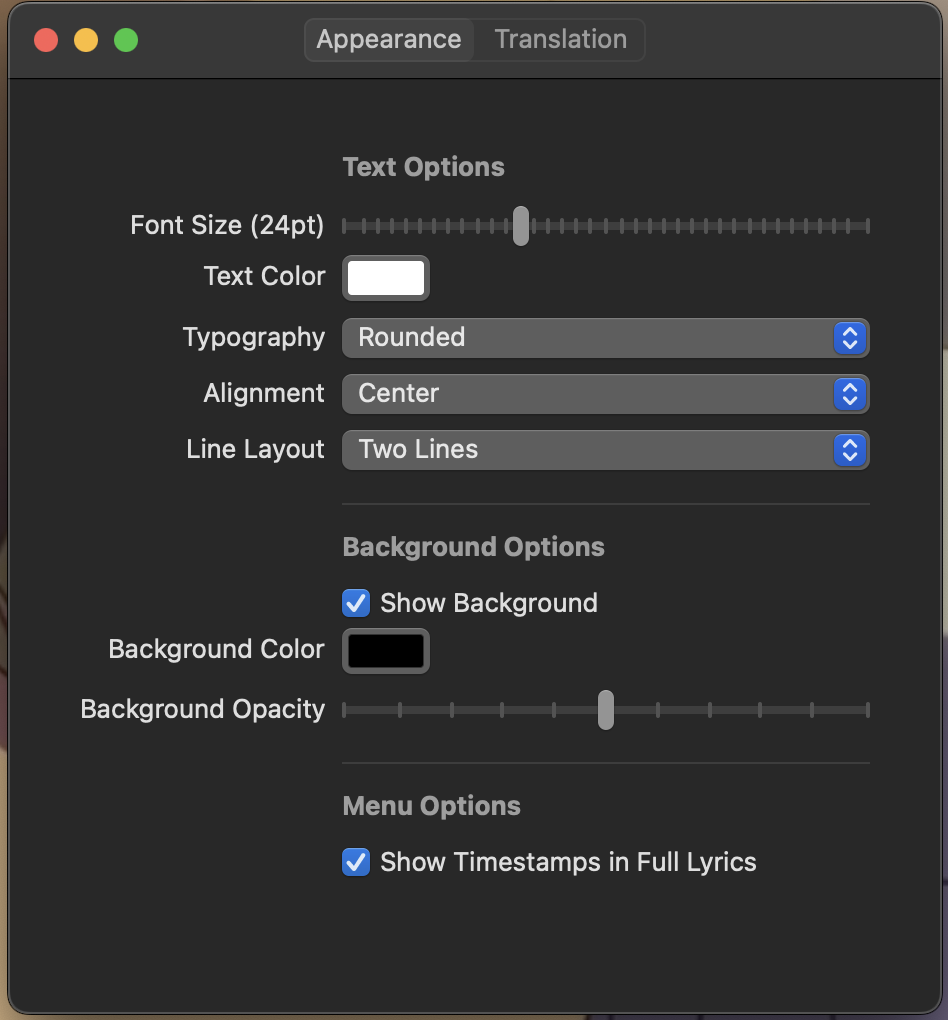
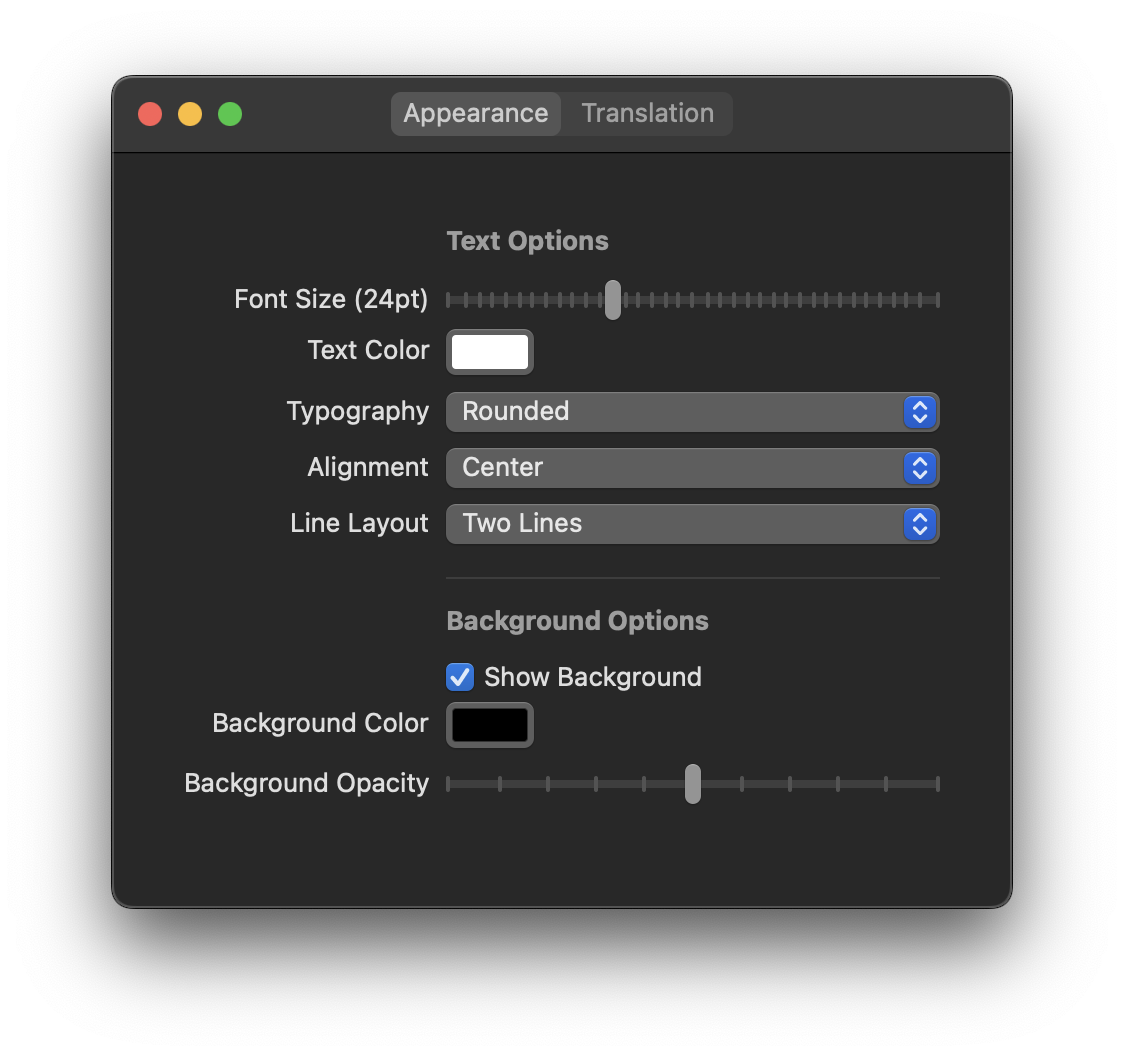
feat: Make translation and romanization display modes customizable (#8)

diff --git a/Sources/UI/LyricsOverlayView.swift b/Sources/UI/LyricsOverlayView.swift
@@ -50,7 +50,7 @@ struct LyricsOverlayView: View {
                 TimelineView(.animation) { _ in
                     let effectiveTime = syncEngine.currentEffectiveTime()
                     
-                    let isRomanized = settings.enableRomanization && Romanizer.romanize(active.text) != nil
+                    let isRomanized = settings.enableRomanization && settings.romanizationDisplayMode != "fullLyricsOnly" && Romanizer.romanize(active.text) != nil
                     let mainText = isRomanized ? Romanizer.romanize(active.text)! : active.text
                     let subText = isRomanized ? active.text : nil
                     
@@ -82,7 +82,7 @@ struct LyricsOverlayView: View {
                     }
                 }
                 
-                if settings.enableTranslation, let translated = translatedLines[active.id], !translated.isEmpty {
+                if settings.enableTranslation && settings.translationDisplayMode != "fullLyricsOnly", let translated = translatedLines[active.id], !translated.isEmpty {
                     HStack(alignment: .firstTextBaseline, spacing: 6) {
                         Image(systemName: "translate")
                             .font(.system(size: max(8, settings.fontSize - 10), weight: .semibold))
@@ -105,7 +105,7 @@ struct LyricsOverlayView: View {
             
             if settings.lineLayout == "two" || settings.lineLayout == "three" {
                 if let next = syncEngine.nextLine {
-                    let isRomanized = settings.enableRomanization && Romanizer.romanize(next.text) != nil
+                    let isRomanized = settings.enableRomanization && settings.romanizationDisplayMode != "fullLyricsOnly" && Romanizer.romanize(next.text) != nil
                     let textToShow = isRomanized ? Romanizer.romanize(next.text)! : next.text
                     
                     HStack(alignment: .center, spacing: 6) {
@@ -127,7 +127,7 @@ struct LyricsOverlayView: View {
             
             if settings.lineLayout == "three" {
                 if let nextNext = syncEngine.nextNextLine {
-                    let isRomanized = settings.enableRomanization && Romanizer.romanize(nextNext.text) != nil
+                    let isRomanized = settings.enableRomanization && settings.romanizationDisplayMode != "fullLyricsOnly" && Romanizer.romanize(nextNext.text) != nil
                     let textToShow = isRomanized ? Romanizer.romanize(nextNext.text)! : nextNext.text
                     
                     HStack(alignment: .center, spacing: 6) {
@@ -159,7 +159,7 @@ struct LyricsOverlayView: View {
         )
         .frame(maxWidth: .infinity, maxHeight: .infinity)
         .contentShape(Rectangle()) // Make the transparent part clickable for dragging
-        .applyBatchTranslation(lines: syncEngine.currentLyrics?.lines ?? [], detectedLanguage: syncEngine.currentLyrics?.detectedLanguage, isEnabled: settings.enableTranslation, sourceLanguage: settings.translationSource, targetLanguage: settings.translationTarget, translatedLines: $translatedLines)
+        .applyBatchTranslation(lines: syncEngine.currentLyrics?.lines ?? [], detectedLanguage: syncEngine.currentLyrics?.detectedLanguage, isEnabled: settings.enableTranslation && settings.translationDisplayMode != "fullLyricsOnly", sourceLanguage: settings.translationSource, targetLanguage: settings.translationTarget, translatedLines: $translatedLines)
     }
     
 }
@@ -280,21 +280,25 @@ struct TranslationWrapper: ViewModifier {
                     translatedText = nil
                 }
             }
-            .translationTask(config) { session in
-                guard isEnabled else { return }
-                do {
-                    // Only call prepareTranslation for explicit source language —
-                    // for auto-detect, skip it to avoid the language-picker popup.
-                    // If translation fails silently, translatedText stays nil.
-                    if sourceLanguage != "auto" {
-                        try await session.prepareTranslation()
+            .background(
+                Group {
+                    if let config = config {
+                        Color.clear
+                            .translationTask(config) { session in
+                                guard isEnabled else { return }
+                                do {
+                                    if sourceLanguage != "auto" {
+                                        try await session.prepareTranslation()
+                                    }
+                                    let response = try await session.translate(text)
+                                    translatedText = response.targetText
+                                } catch {
+                                    translatedText = nil
+                                }
+                            }
                     }
-                    let response = try await session.translate(text)
-                    translatedText = response.targetText
-                } catch {
-                    translatedText = nil
                 }
-            }
+            )
     }
 }
 
@@ -332,20 +336,27 @@ struct BatchTranslationWrapper: ViewModifier {
             .onChange(of: sourceLanguage) { _, _ in triggerTranslation() }
             .onChange(of: targetLanguage) { _, _ in triggerTranslation() }
             .onChange(of: lines.first?.id) { _, _ in triggerTranslation() }
-            .translationTask(config) { session in
-                do {
-                    if sourceLanguage != "auto" {
-                        try await session.prepareTranslation()
+            .background(
+                Group {
+                    if let config = config {
+                        Color.clear
+                            .translationTask(config) { session in
+                                do {
+                                    if sourceLanguage != "auto" {
+                                        try await session.prepareTranslation()
+                                    }
+                                    translatedLines = [:]
+                                    for line in lines where !line.text.isEmpty && line.text != "•••" && line.text != "♫" {
+                                        let response = try await session.translate(line.text)
+                                        translatedLines[line.id] = response.targetText
+                                    }
+                                } catch {
+                                    translatedLines = [:]
+                                }
+                            }
                     }
-                    translatedLines = [:]
-                    for line in lines where !line.text.isEmpty && line.text != "•••" && line.text != "♫" {
-                        let response = try await session.translate(line.text)
-                        translatedLines[line.id] = response.targetText
-                    }
-                } catch {
-                    translatedLines = [:]
                 }
-            }
+            )
     }
     
     private func triggerTranslation() {

diff --git a/Sources/UI/ManualOverrideView.swift b/Sources/UI/ManualOverrideView.swift
@@ -185,7 +185,7 @@ struct ManualOverrideView: View {
                                     }
                                 }) {
                                     VStack(alignment: .leading, spacing: 1) {
-                                        if settings.enableRomanization, let romanized = Romanizer.romanize(line.text) {
+                                        if settings.enableRomanization && settings.romanizationDisplayMode != "overlayOnly", let romanized = Romanizer.romanize(line.text) {
                                             HStack(alignment: .firstTextBaseline, spacing: 4) {
                                                 if lyrics.isSynced {
                                                     Image(systemName: "waveform")
@@ -236,7 +236,7 @@ struct ManualOverrideView: View {
                                             }
                                         }
                                         
-                                        if settings.enableTranslation, let translated = translatedLines[line.id], !translated.isEmpty {
+                                        if settings.enableTranslation && settings.translationDisplayMode != "overlayOnly", let translated = translatedLines[line.id], !translated.isEmpty {
                                             HStack(alignment: .top, spacing: 3) {
                                                 Image(systemName: "translate")
                                                     .font(.system(size: 9))
@@ -358,7 +358,7 @@ struct ManualOverrideView: View {
         .applyBatchTranslation(
             lines: syncEngine.currentLyrics?.lines ?? [],
             detectedLanguage: syncEngine.currentLyrics?.detectedLanguage,
-            isEnabled: settings.enableTranslation,
+            isEnabled: settings.enableTranslation && settings.translationDisplayMode != "overlayOnly",
             sourceLanguage: settings.translationSource,
             targetLanguage: settings.translationTarget,
             translatedLines: $translatedLines

diff --git a/Sources/UI/SettingsView.swift b/Sources/UI/SettingsView.swift
@@ -105,7 +105,21 @@ struct SettingsView: View {
                 Form {
             Section {
                 Toggle("Romanize Non-Latin Text", isOn: $settings.enableRomanization)
+                if settings.enableRomanization {
+                    Picker("Display On", selection: $settings.romanizationDisplayMode) {
+                        Text("Both").tag("both")
+                        Text("Overlay Only").tag("overlayOnly")
+                        Text("Full Lyrics Only").tag("fullLyricsOnly")
+                    }
+                }
                 Toggle("Enable Translation", isOn: $settings.enableTranslation)
+                if settings.enableTranslation {
+                    Picker("Display On", selection: $settings.translationDisplayMode) {
+                        Text("Both").tag("both")
+                        Text("Overlay Only").tag("overlayOnly")
+                        Text("Full Lyrics Only").tag("fullLyricsOnly")
+                    }
+                }
             } header: {
                 Text("General")
                     .font(.headline)

diff --git a/Sources/Core/SettingsManager.swift b/Sources/Core/SettingsManager.swift
@@ -11,7 +11,9 @@ class SettingsManager: ObservableObject, @unchecked Sendable {
     @AppStorage("backgroundColorHex") var backgroundColorHex: String = "#000000"
     @AppStorage("backgroundOpacity") var backgroundOpacity: Double = 0.5
     @AppStorage("enableTranslation") var enableTranslation: Bool = false
+    @AppStorage("translationDisplayMode") var translationDisplayMode: String = "both"
     @AppStorage("enableRomanization") var enableRomanization: Bool = false
+    @AppStorage("romanizationDisplayMode") var romanizationDisplayMode: String = "both"
     @AppStorage("translationSource") var translationSource: String = "auto"
     @AppStorage("translationTarget") var translationTarget: String = "en"
     @AppStorage("typography") var typography: String = "rounded"

diff --git a/README.md b/README.md
@@ -10,8 +10,8 @@ A simple, floating lyrics widget for macOS. It detects what you're playing (Spot
 - **Auto-detection**: Just play a song. No manual search needed.
 - **Draggable & Customizable**: Put the widget anywhere. Tweak fonts, sizes, text/background colors, and layouts from a dedicated Settings window.
 - **Karaoke Sync**: Real-time line-by-line lyric tracking with a smooth karaoke-style wipe effect.
-- **Auto-Romanization**: Automatically detects non-Latin lyrics (Japanese, Korean, Chinese, Cyrillic, etc.) and converts them to Latin script (Romaji, Pinyin, etc.) so you can easily sing along.
-- **Native Translation**: Uses macOS 15+ built-in neural translation to intelligently translate lyrics on the fly.
+- **Auto-Romanization**: Automatically detects non-Latin lyrics (Japanese, Korean, Chinese, Cyrillic, etc.) and converts them to Latin script (Romaji, Pinyin, etc.) so you can easily sing along. Choose to display them on the floating overlay, the full lyrics menu, or both.
+- **Native Translation**: Uses macOS 15+ built-in neural translation to intelligently translate lyrics on the fly. Configure translations to appear on the floating overlay, the full lyrics menu, or both.
 - **Manual Overrides**: If the auto-sync is slightly off or grabs the wrong song, use the menu bar to adjust the timing offset with precision `+/- 100ms` steppers, track the active line (and its exact timestamp) via the auto-scrolling Full Lyrics view, or search manually.
 - **Smart Overlay Auto-Hide**: The floating lyrics widget intelligently auto-hides if the current song has no lyrics available or is an instrumental, fading out unobtrusively after 3 seconds. 
 - **Plain Lyrics Auto-Scroller**: Got a song with only plain text lyrics? No problem! Toggle the auto-scroller in the menu bar and adjust the speed to smoothly scroll through plain lyrics line-by-line while you read along.
